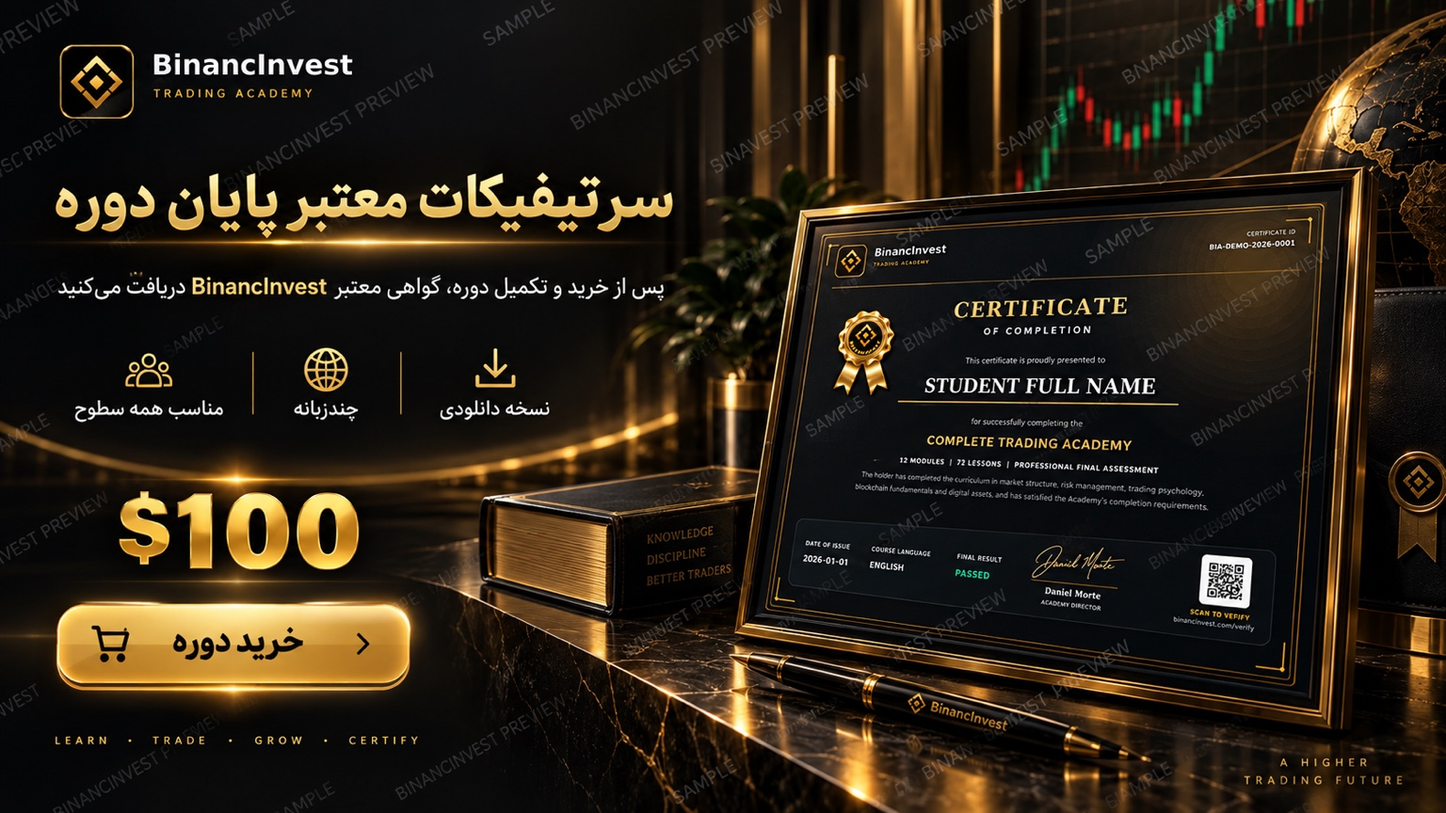
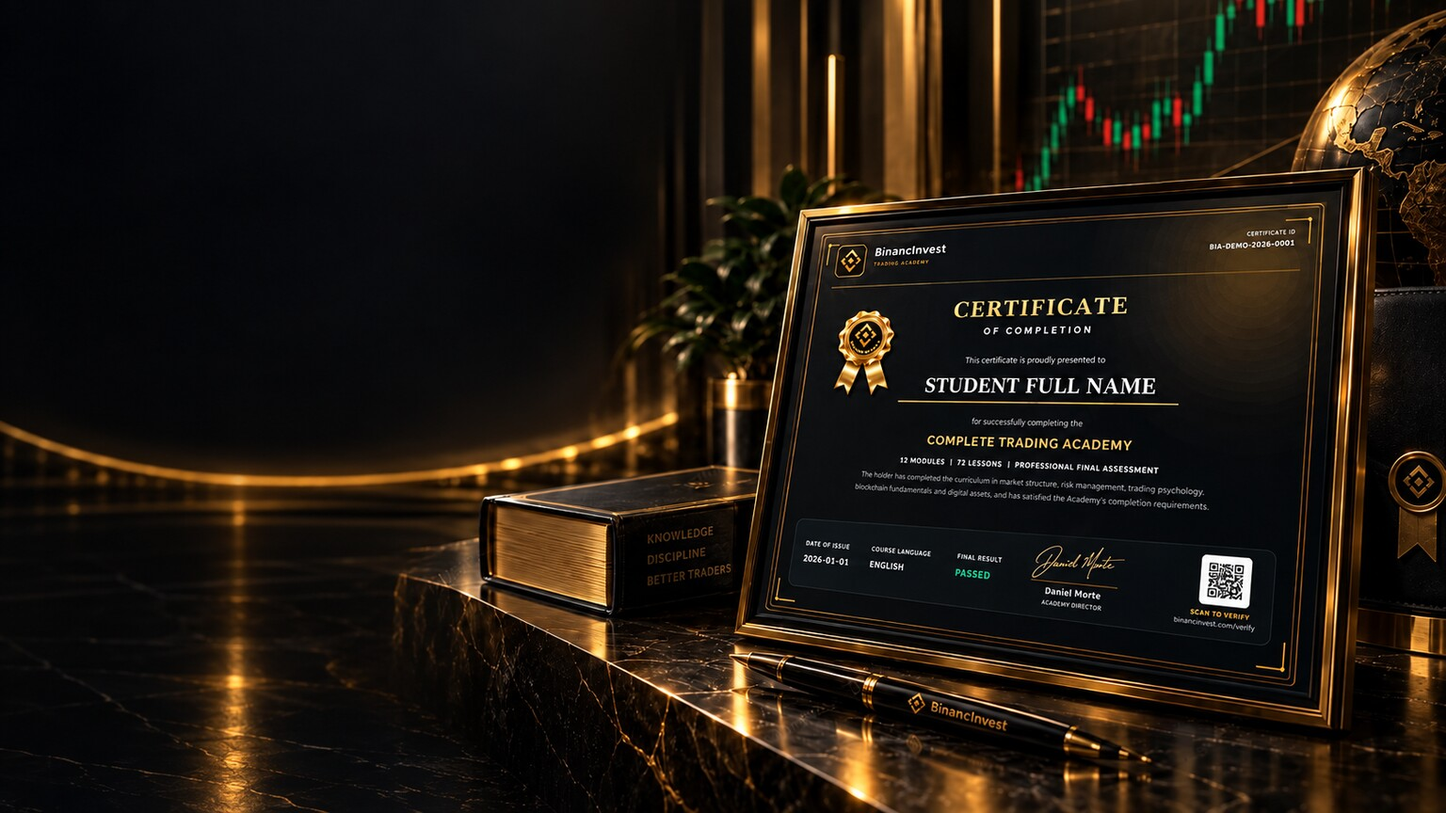
Add files via upload

diff --git a/index.html b/index.html
@@ -14610,30 +14610,25 @@ html[dir="rtl"] .bsc4-monthly-badge{margin-left:0;margin-right:8px}
 </style>
 
 <style id="academy-home-store-v1">
-/* BinancInvest Trading Academy — homepage carousel and secure checkout */
+/* BinancInvest Trading Academy — exact 16:9 artwork with live HTML copy */
 .academy-home-showcase{margin:22px 0 28px}
-.academy-home-heading{display:flex;align-items:flex-end;justify-content:space-between;gap:16px;margin:0 0 12px}
-.academy-home-heading h2{margin:0;color:#fff;font-size:22px;font-weight:950;letter-spacing:-.25px}
-.academy-home-heading p{margin:6px 0 0;color:#9ca8b7;font-size:13px;line-height:1.65}
-.academy-promo-track{direction:ltr;display:flex;gap:14px;overflow-x:auto;overscroll-behavior-inline:contain;scroll-snap-type:x proximity;scrollbar-width:thin;scrollbar-color:rgba(240,185,11,.48) rgba(255,255,255,.045);padding:1px 1px 10px;touch-action:pan-x pan-y}
+.academy-promo-track{direction:ltr;display:flex;gap:14px;overflow-x:auto;overscroll-behavior-inline:contain;scroll-snap-type:x mandatory;scrollbar-width:thin;scrollbar-color:rgba(240,185,11,.48) rgba(255,255,255,.045);padding:1px 1px 10px;touch-action:pan-x pan-y;-webkit-overflow-scrolling:touch}
 .academy-promo-track::-webkit-scrollbar{height:6px}.academy-promo-track::-webkit-scrollbar-track{background:rgba(255,255,255,.04);border-radius:999px}.academy-promo-track::-webkit-scrollbar-thumb{background:linear-gradient(90deg,#9e6d00,#f0b90b,#ffe58a);border-radius:999px}
-.academy-promo-card{position:relative;isolation:isolate;flex:0 0 100%;aspect-ratio:16/9;min-height:430px;overflow:hidden;scroll-snap-align:start;background:#05070b;border:1px solid rgba(240,185,11,.38);border-radius:24px;box-shadow:0 24px 65px rgba(0,0,0,.52),inset 0 1px 0 rgba(255,255,255,.055)}
-.academy-promo-media,.academy-promo-shade{position:absolute;inset:0;width:100%;height:100%}.academy-promo-media{z-index:0;object-fit:cover;object-position:center}.academy-promo-shade{z-index:1;pointer-events:none;background:linear-gradient(90deg,#05070b 0%,#05070b 45%,rgba(5,7,11,.985) 52%,rgba(5,7,11,.86) 61%,rgba(5,7,11,.24) 73%,transparent 82%)}
-.academy-promo-card.certificate .academy-promo-shade{background:linear-gradient(90deg,#05070b 0%,#05070b 43%,rgba(5,7,11,.985) 50%,rgba(5,7,11,.88) 58%,rgba(5,7,11,.22) 70%,transparent 80%)}
-.academy-promo-content{position:relative;z-index:2;display:flex;flex-direction:column;justify-content:center;width:56%;height:100%;padding:4.3% 4.6%;text-align:start}
-.academy-promo-brand{display:flex;align-items:center;gap:10px;margin-bottom:14px;color:#f8f9fb;font-size:14px;font-weight:950;letter-spacing:.2px}.academy-promo-brand svg{width:36px;height:36px;flex:none;padding:7px;background:rgba(8,10,13,.78);border:1px solid rgba(255,222,111,.58);border-radius:10px;box-shadow:0 0 17px rgba(240,185,11,.15)}.academy-promo-brand small{display:block;margin-top:2px;color:#dcae35;font-size:8px;font-weight:850;letter-spacing:2.1px;text-transform:uppercase}
-.academy-promo-kicker{margin-bottom:8px;color:#ffe58a;font-size:11px;font-weight:900;letter-spacing:1.7px;text-transform:uppercase;text-shadow:0 0 14px rgba(240,185,11,.23)}
-.academy-promo-content h3{max-width:720px;margin:0;color:#fff4c8;font-size:clamp(30px,4.2vw,58px);font-weight:950;letter-spacing:-1.4px;line-height:1.06;text-shadow:0 3px 18px rgba(0,0,0,.9),0 0 24px rgba(240,185,11,.13)}
-.academy-promo-content>p{max-width:650px;margin:13px 0 0;color:#e5e9ee;font-size:clamp(14px,1.45vw,19px);font-weight:600;line-height:1.7;text-shadow:0 2px 12px rgba(0,0,0,.96)}
-.academy-promo-highlight{display:inline-flex;align-items:center;width:max-content;max-width:100%;margin-top:15px;padding:10px 14px;color:#ffe9a8;font-size:clamp(12px,1.1vw,15px);font-weight:800;line-height:1.5;background:linear-gradient(145deg,rgba(255,255,255,.075),rgba(240,185,11,.045));border:1px solid rgba(255,222,116,.34);border-radius:12px;box-shadow:inset 0 1px 0 rgba(255,255,255,.055),0 8px 24px rgba(0,0,0,.24);backdrop-filter:blur(10px);-webkit-backdrop-filter:blur(10px)}
-.academy-promo-features{display:flex;flex-wrap:wrap;gap:8px;margin-top:14px}.academy-promo-feature{padding:7px 10px;color:#f0f3f7;font-size:12px;font-weight:750;background:rgba(7,10,14,.61);border:1px solid rgba(240,185,11,.22);border-radius:999px;backdrop-filter:blur(10px);-webkit-backdrop-filter:blur(10px)}
-.academy-promo-actions{display:flex;align-items:center;gap:10px;flex-wrap:wrap;margin-top:17px}.academy-promo-price{display:grid;place-items:center;min-width:126px;min-height:53px;padding:8px 17px;color:#ffe58a;font-size:31px;font-weight:950;line-height:1;background:rgba(6,9,13,.74);border:1px solid rgba(255,220,100,.58);border-radius:14px;box-shadow:inset 0 1px 0 rgba(255,255,255,.06),0 8px 24px rgba(0,0,0,.28)}
-.academy-promo-buy,.academy-promo-download{min-height:53px;padding:11px 20px;border-radius:14px;font-size:14px;font-weight:950;transition:transform .18s ease,border-color .18s ease,filter .18s ease}.academy-promo-buy{color:#171100;background:linear-gradient(135deg,#fff2ab,#f0b90b 63%,#d89400);border:1px solid #ffe16b;box-shadow:inset 0 1px 1px rgba(255,255,255,.7),0 9px 25px rgba(240,185,11,.18)}.academy-promo-buy:hover{transform:translateY(-2px);filter:brightness(1.04)}.academy-promo-download{color:#e8edf4;background:rgba(11,16,22,.83);border:1px solid rgba(255,255,255,.18)}.academy-promo-download:not(:disabled){color:#07110c;background:linear-gradient(135deg,#7cf5c2,#16c784);border-color:#70e9b7}.academy-promo-download:disabled{opacity:.58;cursor:not-allowed}
+.academy-promo-card{container-type:inline-size;position:relative;isolation:isolate;flex:0 0 100%;width:100%;height:auto;min-height:0;aspect-ratio:16/9;overflow:hidden;scroll-snap-align:start;background:#05070b;border:1px solid rgba(240,185,11,.38);border-radius:clamp(12px,1.55vw,24px);box-shadow:0 24px 65px rgba(0,0,0,.52);transform:translateZ(0)}
+.academy-promo-media{position:absolute;inset:0;z-index:0;width:100%;height:100%;object-fit:contain;object-position:center;background:#05070b;pointer-events:none}
+.academy-ad-copy{position:absolute;z-index:2;inset:0 auto 0 0;width:51%;padding:3.6% 3.7% 3.1%;color:#fff;display:flex;flex-direction:column;text-align:left;direction:ltr;text-shadow:0 .18cqw .65cqw rgba(0,0,0,.98)}
+.academy-promo-card[dir="rtl"] .academy-ad-copy{text-align:right;direction:rtl}
+.academy-ad-brand{height:10%;display:flex;align-items:center;gap:1.05cqw;color:#fff;font-size:clamp(7px,1.85cqw,28px);font-weight:950;white-space:nowrap}.academy-ad-brand svg{width:5.3cqw;height:5.3cqw;flex:none;color:#f5c449}.academy-ad-brand small{display:block;margin-top:.18cqw;color:#e3ac26;font-size:clamp(4px,.68cqw,10px);font-weight:800;letter-spacing:.25cqw;text-transform:uppercase}.academy-ad-brand-value{margin-inline-start:1.15cqw;padding-inline-start:1.15cqw;border-inline-start:1px solid rgba(244,193,69,.7);color:#e4b84d;font-size:clamp(4px,.7cqw,11px);font-weight:800;line-height:1.65;letter-spacing:.24cqw;text-transform:uppercase;white-space:normal}
+.academy-ad-copy h3{margin:7.4% 0 0;color:#ffe083;font-size:clamp(12px,3.75cqw,57px);font-weight:950;line-height:1.14;letter-spacing:-.08cqw;white-space:nowrap}.academy-ad-brandline{margin-top:.65%;color:#f7e7b6;font-size:clamp(6px,1.38cqw,21px);font-weight:800;letter-spacing:.28cqw;white-space:nowrap}.academy-ad-subtitle{margin:2.4% 0 0;color:#f5f5f6;font-size:clamp(6px,1.13cqw,17px);font-weight:700;line-height:1.55;min-height:3.2em;display:flex;align-items:flex-start}
+.academy-ad-highlight{display:flex;align-items:center;gap:1.1cqw;margin-top:2.4%;min-height:9%;padding:.65cqw 1.15cqw;color:#f6d97e;font-size:clamp(5px,1.03cqw,16px);font-weight:850;line-height:1.4;border:1px solid rgba(255,210,91,.7);border-radius:1.1cqw;background:rgba(5,7,10,.44)}.academy-ad-highlight svg{width:2.6cqw;height:2.6cqw;flex:none;color:#f4c143}
+.academy-ad-actions{display:flex;align-items:center;gap:1.8cqw;margin-top:3.4%;height:12%}.academy-ad-price{display:grid;place-items:center;width:16.1cqw;height:6.1cqw;color:#ffd768;font-size:clamp(13px,4.45cqw,68px);font-weight:950;line-height:1;border:1px solid rgba(255,220,115,.8);border-radius:1.2cqw;background:rgba(7,9,12,.7);text-shadow:0 .15cqw .6cqw #000}.academy-ad-cta{display:flex;align-items:center;justify-content:center;gap:1.2cqw;width:19.3cqw;height:6.1cqw;padding:0 1cqw;color:#171100;font-size:clamp(7px,1.55cqw,24px);font-weight:950;white-space:nowrap;border:1px solid #ffe992;border-radius:1.2cqw;background:linear-gradient(180deg,#fff1a8,#e9a519);box-shadow:inset 0 1px 1px rgba(255,255,255,.85),0 .5cqw 1.4cqw rgba(239,176,20,.25)}.academy-ad-cta:hover{filter:brightness(1.05)}.academy-ad-cta svg{width:2cqw;height:2cqw}.academy-ad-cta[hidden]{display:none!important}
+.academy-ad-features{display:grid;grid-template-columns:repeat(4,1fr);gap:.4cqw;margin-top:3%;height:12%;color:#fff}.academy-ad-feature{display:flex;flex-direction:column;align-items:center;justify-content:center;gap:.35cqw;padding-inline:.25cqw;font-size:clamp(4px,.78cqw,12px);font-weight:800;line-height:1.25;text-align:center;border-inline-start:1px solid rgba(238,184,54,.42)}.academy-ad-feature:first-child{border-inline-start:0}.academy-ad-feature svg{width:2.1cqw;height:2.1cqw;color:#f1c14f}.academy-ad-tagline{margin-top:auto;color:#e8c46f;font-size:clamp(4px,.61cqw,9px);font-weight:800;letter-spacing:.32cqw;white-space:nowrap;text-transform:uppercase}
+.academy-ad-certificate h3{margin-top:8.8%;font-size:clamp(11px,3.35cqw,51px)}.academy-ad-certificate .academy-ad-subtitle{font-size:clamp(6px,1.05cqw,16px)}.academy-ad-certificate .academy-ad-features{grid-template-columns:repeat(3,1fr);margin-top:3.8%;height:13%}.academy-ad-certificate .academy-ad-actions{margin-top:4%}
+.academy-promo-card[lang="en"].academy-ad-certificate h3,.academy-promo-card[lang="es"].academy-ad-certificate h3,.academy-promo-card[lang="fr"].academy-ad-certificate h3,.academy-promo-card[lang="de"].academy-ad-certificate h3,.academy-promo-card[lang="ru"].academy-ad-certificate h3{font-size:clamp(9px,2.45cqw,37px)}
+.academy-promo-card[lang="de"].academy-ad-course h3,.academy-promo-card[lang="fr"].academy-ad-course h3,.academy-promo-card[lang="es"].academy-ad-course h3,.academy-promo-card[lang="ru"].academy-ad-course h3{font-size:clamp(10px,3.05cqw,46px)}
 .academy-promo-nav{display:flex;align-items:center;justify-content:center;gap:8px;margin-top:8px}.academy-promo-dot{width:10px;height:10px;padding:0;background:rgba(255,255,255,.16);border:1px solid rgba(255,255,255,.18);border-radius:999px;transition:width .2s ease,background .2s ease,border-color .2s ease}.academy-promo-dot.active{width:31px;background:linear-gradient(90deg,#d99b00,#ffe58a);border-color:#ffe58a}
 .academy-payment-modal .bscp-title{max-width:330px}.academy-payment-modal .academy-checkout-code{color:#ffe58a;font-size:10px;font-weight:900;letter-spacing:1.6px}.academy-payment-modal .academy-success-actions{display:flex;gap:9px;justify-content:center;flex-wrap:wrap;margin-top:16px}.academy-payment-modal .academy-success-actions .bscp-primary,.academy-payment-modal .academy-success-actions .bscp-secondary{width:auto;min-width:150px}
-html[dir="rtl"] .academy-home-heading,html[dir="rtl"] .academy-promo-content{text-align:right}.academy-promo-card[dir="ltr"] .academy-promo-content{text-align:left}.academy-promo-card[dir="rtl"] .academy-promo-content{text-align:right}
-@media(max-width:780px){.academy-home-heading{align-items:flex-start;flex-direction:column}.academy-promo-card{min-height:390px;aspect-ratio:4/3;border-radius:19px}.academy-promo-media{object-position:61% center}.academy-promo-shade,.academy-promo-card.certificate .academy-promo-shade{background:linear-gradient(90deg,#05070b 0%,rgba(5,7,11,.995) 54%,rgba(5,7,11,.88) 69%,rgba(5,7,11,.26) 88%,transparent)}.academy-promo-content{width:72%;padding:25px 20px}.academy-promo-content h3{font-size:clamp(25px,7vw,38px)}.academy-promo-content>p{font-size:13px}.academy-promo-feature{font-size:10px}.academy-promo-price{min-width:104px;min-height:46px;font-size:27px}.academy-promo-buy,.academy-promo-download{min-height:46px;padding:9px 14px;font-size:12px}}
-@media(max-width:480px){.academy-home-showcase{width:100vw;margin-left:calc(50% - 50vw);padding:0 12px}.academy-promo-card{min-height:430px;aspect-ratio:auto;border-radius:17px}.academy-promo-media{object-position:66% center}.academy-promo-shade,.academy-promo-card.certificate .academy-promo-shade{background:linear-gradient(90deg,#040609 0%,rgba(4,6,9,.995) 61%,rgba(4,6,9,.9) 76%,rgba(4,6,9,.42) 94%,transparent)}.academy-promo-content{width:84%;padding:24px 18px}.academy-promo-brand{margin-bottom:10px}.academy-promo-content h3{font-size:28px;letter-spacing:-.65px}.academy-promo-content>p{margin-top:10px;font-size:13px;line-height:1.58}.academy-promo-highlight{margin-top:11px;padding:8px 10px;font-size:11px}.academy-promo-features{gap:6px;margin-top:10px}.academy-promo-feature{padding:6px 8px}.academy-promo-actions{gap:7px;margin-top:12px}.academy-promo-price{min-width:92px;font-size:24px}.academy-promo-buy,.academy-promo-download{padding-inline:11px}.academy-promo-download{flex:1 1 100%}}
+@media(max-width:480px){.academy-home-showcase{width:100vw;margin-left:calc(50% - 50vw);padding:0 8px}.academy-promo-track{gap:8px}.academy-promo-card{border-radius:10px}}
 </style>
 </head>
 <body data-investment-model="flex-v6-37-8">
@@ -14830,62 +14825,46 @@ html[dir="rtl"] .academy-home-heading,html[dir="rtl"] .academy-promo-content{tex
 </div>
 <div class="hero"><div class="eyebrow" data-t="eyebrowText">PREMIUM DIGITAL ASSET PLATFORM</div><h1 data-t="hero">Build your future with intelligent investing.</h1><p data-t="heroDesc">Explore digital assets, investment plans and portfolio tools in one premium interface.</p><div class="actions"><button class="btn gold" onclick="page('invest', document.querySelector('[data-page=invest]'))" data-t="exploreInvest">Explore Investments</button><button class="btn" onclick="page('markets', document.querySelector('[data-page=markets]'))" data-t="exploreMarkets">Explore Markets</button></div><svg class="hero-glass-lightning" viewBox="0 0 300 430" preserveAspectRatio="xMaxYMin meet" aria-hidden="true"><defs><linearGradient id="heroGlassBolt" x1="1" y1="0" x2="0" y2="1"><stop offset="0" stop-color="#fff" stop-opacity=".98"/><stop offset=".42" stop-color="#dff5ff" stop-opacity=".88"/><stop offset=".76" stop-color="#fff0b0" stop-opacity=".66"/><stop offset="1" stop-color="#f0b90b" stop-opacity=".16"/></linearGradient><filter id="heroBoltGlow" x="-100%" y="-100%" width="300%" height="300%"><feGaussianBlur stdDeviation="3.8" result="blur"/><feMerge><feMergeNode in="blur"/><feMergeNode in="SourceGraphic"/></feMerge></filter></defs><path class="lightning-core" d="M299 1 L269 52 L278 84 L228 128 L239 163 L184 211 L195 248 L139 307 L150 347 L101 426"/><path class="lightning-shine" d="M299 1 L269 52 L278 84 L228 128 L239 163 L184 211 L195 248 L139 307 L150 347 L101 426"/><path class="lightning-branch" d="M228 128 L191 104 L162 66"/><path class="lightning-branch" d="M239 163 L273 143 L297 110"/><path class="lightning-branch" d="M184 211 L146 191 L111 151"/><path class="lightning-branch" d="M195 248 L233 236 L266 202"/><path class="lightning-branch" d="M139 307 L104 286 L74 251"/></svg><div class="orb"></div></div>
 
-<section class="academy-home-showcase" aria-labelledby="academyHomeTitle">
-  <div class="academy-home-heading">
-    <div>
-      <h2 id="academyHomeTitle" data-academy="sectionTitle">Trading Academy</h2>
-      <p data-academy="sectionDesc">Complete multilingual trading education with downloadable course files and a professional certificate.</p>
-    </div>
-  </div>
-
+<section class="academy-home-showcase" aria-label="Trading Academy">
   <div class="academy-promo-track" id="academyPromoTrack" role="region" aria-label="Trading Academy offers" tabindex="0">
-    <article class="academy-promo-card course" data-academy-slide="0">
+    <article class="academy-promo-card academy-ad-course" data-academy-slide="0">
       <img class="academy-promo-media" src="academy-course-showcase.jpeg" alt="" width="1536" height="864" loading="eager" decoding="async">
-      <span class="academy-promo-shade" aria-hidden="true"></span>
-      <div class="academy-promo-content">
-        <div class="academy-promo-brand">
-          <svg viewBox="0 0 24 24" fill="#F0B90B" aria-hidden="true"><path d="M11.996 9.845 14.15 12l-2.154 2.155L9.84 12l2.156-2.155Zm0-5.055 3.942 3.94 2.155-2.155L11.996.48 5.903 6.575l2.155 2.154 3.938-3.94ZM19.897 12l-2.155-2.155 2.155-2.154L23.99 12l-4.093 4.093-2.155-2.154L19.897 12ZM4.103 12l2.155 2.155-2.155 2.154L0 12l4.093-4.093 2.155 2.154L4.103 12Zm7.893 7.21-3.942-3.94-2.155 2.155 6.097 6.095 6.097-6.096-2.155-2.154-3.942 3.94Z"/></svg>
-          <span>BinancInvest<small>Trading Academy</small></span>
+      <div class="academy-ad-copy">
+        <div class="academy-ad-brand">
+          <svg viewBox="0 0 24 24" fill="currentColor" aria-hidden="true"><path d="M11.996 9.845 14.15 12l-2.154 2.155L9.84 12l2.156-2.155Zm0-5.055 3.942 3.94 2.155-2.155L11.996.48 5.903 6.575l2.155 2.154 3.938-3.94ZM19.897 12l-2.155-2.155 2.155-2.154L23.99 12l-4.093 4.093-2.155-2.154L19.897 12ZM4.103 12l2.155 2.155-2.155 2.154L0 12l4.093-4.093 2.155 2.154L4.103 12Zm7.893 7.21-3.942-3.94-2.155 2.155 6.097 6.095 6.097-6.096-2.155-2.154-3.942 3.94Z"/></svg>
+          <span>BinancInvest<small>Trading Academy</small></span><span class="academy-ad-brand-value" data-academy="valueLine">Knowledge<br>Builds Wealth</span>
         </div>
-        <span class="academy-promo-kicker" data-academy="courseKicker">COMPLETE TRADING EDUCATION</span>
         <h3 data-academy="courseTitle">Complete Trading Academy</h3>
-        <p data-academy="courseSubtitle">A structured course from beginner to advanced: Spot, Futures, technical analysis and risk management.</p>
-        <div class="academy-promo-highlight" data-academy="courseCertificate">Complete the course and receive a professional BinancInvest certificate.</div>
-        <div class="academy-promo-features">
-          <span class="academy-promo-feature" data-academy="strategy">Practical strategies</span>
-          <span class="academy-promo-feature" data-academy="mentor">Professional training</span>
-          <span class="academy-promo-feature" data-academy="support">Dedicated support</span>
-          <span class="academy-promo-feature" data-academy="community">Active trader community</span>
+        <div class="academy-ad-brandline">BinancInvest Trading Academy</div>
+        <p class="academy-ad-subtitle" data-academy="courseSubtitle">From beginner to advanced: Spot, Futures, technical analysis and risk management.</p>
+        <div class="academy-ad-highlight"><svg viewBox="0 0 24 24" fill="none"><path d="M5 3h14v14H5zM8 20h8M10 17v3m4-3v3" stroke="currentColor" stroke-width="1.7"/><path d="m9 10 2 2 4-5" stroke="currentColor" stroke-width="1.7"/></svg><span data-academy="courseCertificate">Buy this course and receive a professional certificate.</span></div>
+        <div class="academy-ad-actions"><span class="academy-ad-price" dir="ltr">$100</span><button class="academy-ad-cta" type="button" onclick="academyOpenCheckout()" data-academy-buy data-academy="buyCourse">Buy Course</button><button class="academy-ad-cta" type="button" onclick="academyDownload()" data-academy-download hidden data-academy="downloadCourse">Download Course</button></div>
+        <div class="academy-ad-features">
+          <span class="academy-ad-feature"><svg viewBox="0 0 24 24" fill="none"><path d="M4 19V9m5 10V5m5 14v-7m5 7V3" stroke="currentColor" stroke-width="1.7"/></svg><span data-academy="strategy">Practical strategies</span></span>
+          <span class="academy-ad-feature"><svg viewBox="0 0 24 24" fill="none"><path d="m3 8 9-5 9 5-9 5-9-5Zm4 3v5c3 3 7 3 10 0v-5" stroke="currentColor" stroke-width="1.7"/></svg><span data-academy="mentor">Professional training</span></span>
+          <span class="academy-ad-feature"><svg viewBox="0 0 24 24" fill="none"><path d="M12 3 5 6v5c0 5 3 8 7 10 4-2 7-5 7-10V6l-7-3Zm-3 9 2 2 4-5" stroke="currentColor" stroke-width="1.7"/></svg><span data-academy="support">Dedicated support</span></span>
+          <span class="academy-ad-feature"><svg viewBox="0 0 24 24" fill="none"><circle cx="9" cy="8" r="3" stroke="currentColor" stroke-width="1.7"/><path d="M3 20v-2c0-3 2-5 6-5s6 2 6 5v2m1-12a3 3 0 0 1 0 6m1 1c3 0 4 2 4 5" stroke="currentColor" stroke-width="1.7"/></svg><span data-academy="community">Active trader community</span></span>
         </div>
-        <div class="academy-promo-actions">
-          <span class="academy-promo-price" dir="ltr">$100</span>
-          <button class="academy-promo-buy" type="button" onclick="academyOpenCheckout()" data-academy-buy data-academy="buyCourse">Buy Course</button>
-          <button class="academy-promo-download" type="button" onclick="academyDownload()" data-academy-download disabled data-academy="downloadLocked">Download after payment</button>
-        </div>
+        <div class="academy-ad-tagline" data-academy="courseTagline">Trade · Learn · Grow · Together</div>
       </div>
     </article>
 
-    <article class="academy-promo-card certificate" data-academy-slide="1">
+    <article class="academy-promo-card academy-ad-certificate" data-academy-slide="1">
       <img class="academy-promo-media" src="academy-certificate-showcase.jpeg" alt="" width="1536" height="864" loading="lazy" decoding="async">
-      <span class="academy-promo-shade" aria-hidden="true"></span>
-      <div class="academy-promo-content">
-        <div class="academy-promo-brand">
-          <svg viewBox="0 0 24 24" fill="#F0B90B" aria-hidden="true"><path d="M11.996 9.845 14.15 12l-2.154 2.155L9.84 12l2.156-2.155Zm0-5.055 3.942 3.94 2.155-2.155L11.996.48 5.903 6.575l2.155 2.154 3.938-3.94ZM19.897 12l-2.155-2.155 2.155-2.154L23.99 12l-4.093 4.093-2.155-2.154L19.897 12ZM4.103 12l2.155 2.155-2.155 2.154L0 12l4.093-4.093 2.155 2.154L4.103 12Zm7.893 7.21-3.942-3.94-2.155 2.155 6.097 6.095 6.097-6.096-2.155-2.154-3.942 3.94Z"/></svg>
+      <div class="academy-ad-copy">
+        <div class="academy-ad-brand">
+          <svg viewBox="0 0 24 24" fill="currentColor" aria-hidden="true"><path d="M11.996 9.845 14.15 12l-2.154 2.155L9.84 12l2.156-2.155Zm0-5.055 3.942 3.94 2.155-2.155L11.996.48 5.903 6.575l2.155 2.154 3.938-3.94ZM19.897 12l-2.155-2.155 2.155-2.154L23.99 12l-4.093 4.093-2.155-2.154L19.897 12ZM4.103 12l2.155 2.155-2.155 2.154L0 12l4.093-4.093 2.155 2.154L4.103 12Zm7.893 7.21-3.942-3.94-2.155 2.155 6.097 6.095 6.097-6.096-2.155-2.154-3.942 3.94Z"/></svg>
           <span>BinancInvest<small>Trading Academy</small></span>
         </div>
-        <span class="academy-promo-kicker" data-academy="certificateKicker">PROFESSIONAL COMPLETION CERTIFICATE</span>
         <h3 data-academy="certificateTitle">A certificate that proves your progress</h3>
-        <p data-academy="certificateSubtitle">After completing all 12 modules and 72 lessons, receive your personalized BinancInvest certificate.</p>
-        <div class="academy-promo-features">
-          <span class="academy-promo-feature" data-academy="downloadable">Downloadable</span>
-          <span class="academy-promo-feature" data-academy="multilingual">10 languages</span>
-          <span class="academy-promo-feature" data-academy="verified">Professionally verifiable</span>
+        <p class="academy-ad-subtitle" data-academy="certificateSubtitle">After completing the course, receive your professional BinancInvest certificate.</p>
+        <div class="academy-ad-features">
+          <span class="academy-ad-feature"><svg viewBox="0 0 24 24" fill="none"><circle cx="8" cy="8" r="3" stroke="currentColor" stroke-width="1.7"/><path d="M2 20v-2c0-3 2-5 6-5s6 2 6 5v2m4-9v6m-3-3h6" stroke="currentColor" stroke-width="1.7"/></svg><span data-academy="allLevels">All levels</span></span>
+          <span class="academy-ad-feature"><svg viewBox="0 0 24 24" fill="none"><circle cx="12" cy="12" r="9" stroke="currentColor" stroke-width="1.7"/><path d="M3 12h18M12 3c3 3 4 6 4 9s-1 6-4 9c-3-3-4-6-4-9s1-6 4-9Z" stroke="currentColor" stroke-width="1.7"/></svg><span data-academy="multilingual">10 languages</span></span>
+          <span class="academy-ad-feature"><svg viewBox="0 0 24 24" fill="none"><path d="M12 3v12m0 0-4-4m4 4 4-4M5 20h14" stroke="currentColor" stroke-width="1.7"/></svg><span data-academy="downloadable">Downloadable</span></span>
         </div>
-        <div class="academy-promo-actions">
-          <span class="academy-promo-price" dir="ltr">$100</span>
-          <button class="academy-promo-buy" type="button" onclick="academyOpenCheckout()" data-academy-buy data-academy="buyCourse">Buy Course</button>
-          <button class="academy-promo-download" type="button" onclick="academyDownload()" data-academy-download disabled data-academy="downloadLocked">Download after payment</button>
-        </div>
+        <div class="academy-ad-actions"><span class="academy-ad-price" dir="ltr">$100</span><button class="academy-ad-cta" type="button" onclick="academyOpenCheckout()" data-academy-buy data-academy="buyCourse">Buy Course</button><button class="academy-ad-cta" type="button" onclick="academyDownload()" data-academy-download hidden data-academy="downloadCourse">Download Course</button></div>
+        <div class="academy-ad-tagline" data-academy="certificateTagline">Learn · Trade · Grow · Certify</div>
       </div>
     </article>
   </div>
@@ -33509,7 +33488,7 @@ let prev=lang();setInterval(()=>{const x=lang();if(x!==prev){prev=x;applyLabels(
   "use strict";
   const PRICE=100;
   const ADDRESS="0x7a858984dAE29B02d148f254eCa04aeB6c51f8fD";
-  const DOWNLOAD_FILE="BinancInvest_Trading_Academy_10_Languages.zip";
+  const DOWNLOAD_HOST="zpwxvngrowhqquwpovuf.supabase.co";
   const $=function(id){return document.getElementById(id)};
   const COPY={
     en:{sectionTitle:"Trading Academy",sectionDesc:"Complete multilingual trading education with downloadable course files and a professional certificate.",courseKicker:"COMPLETE TRADING EDUCATION",courseTitle:"Complete Trading Academy",courseSubtitle:"A structured course from beginner to advanced: Spot, Futures, technical analysis and risk management.",courseCertificate:"Complete the course and receive a professional BinancInvest certificate.",strategy:"Practical strategies",mentor:"Professional training",support:"Dedicated support",community:"Active trader community",certificateKicker:"PROFESSIONAL COMPLETION CERTIFICATE",certificateTitle:"A certificate that proves your progress",certificateSubtitle:"After completing all 12 modules and 72 lessons, receive your personalized BinancInvest certificate.",downloadable:"Downloadable",multilingual:"10 languages",verified:"Professionally verifiable",buyCourse:"Buy Course",purchased:"Purchased",downloadLocked:"Download after payment",downloadCourse:"Download 10-language ZIP",checkoutKicker:"BINANCINVEST SECURE CHECKOUT",checkoutTitle:"Complete Trading Academy",baseTitle:"Pay from Base Plan",baseDesc:"Use available principal from your Base Plan.",directTitle:"Direct Payment",directDesc:"Send USDT directly and verify the TXID.",availableBase:"Available Base Plan principal",baseHint:"The exact course price is deducted from Base Plan principal. Existing earned profit remains unchanged.",payBase:"Pay from Base Plan",directHint:"For automatic verification, send exactly 100 USDT using BEP20 or ERC20.",fastVerify:"Automatic blockchain verification",walletAddress:"Wallet address",copy:"Copy",copied:"Copied",sendExactly:"Send exactly",txidLabel:"Transaction Hash (TXID)",verifyPayment:"Verify Payment",checkAgain:"Check Again",successTitle:"Payment Successful",successText:"Your course access is active. The 10-language ZIP is ready to download.",downloadNow:"Download Course ZIP",done:"Done",login:"Please sign in before purchasing the course.",loading:"Loading account information…",insufficient:"Your Base Plan principal is not enough for this course.",baseReady:"The course price will be deducted from Base Plan principal.",owned:"Course purchased. Your download is active.",processing:"Processing secure payment…",txid:"Enter a valid 0x transaction hash.",checking:"Payment found. Waiting for blockchain confirmations…",notFound:"Transaction has not been mined yet. We will check again.",failed:"Payment verification failed. Check network, amount and TXID.",server:"Payment service is temporarily unavailable."},
@@ -33523,6 +33502,19 @@ let prev=lang();setInterval(()=>{const x=lang();if(x!==prev){prev=x;applyLabels(
     fr:{sectionTitle:"Académie de Trading",sectionDesc:"Formation complète en 10 langues, fichiers téléchargeables et certificat professionnel.",courseKicker:"FORMATION COMPLÈTE AU TRADING",courseTitle:"Académie Complète de Trading",courseSubtitle:"Du niveau débutant au niveau avancé : Spot, Futures, analyse technique et gestion du risque.",courseCertificate:"Terminez le cours et recevez un certificat professionnel BinancInvest.",strategy:"Stratégies pratiques",mentor:"Formation professionnelle",support:"Assistance dédiée",community:"Communauté active",certificateKicker:"CERTIFICAT PROFESSIONNEL",certificateTitle:"Un certificat qui prouve vos progrès",certificateSubtitle:"Après 12 modules et 72 leçons, recevez votre certificat BinancInvest personnalisé.",downloadable:"Téléchargeable",multilingual:"10 langues",verified:"Vérification professionnelle",buyCourse:"Acheter le Cours",purchased:"Acheté",downloadLocked:"Télécharger après paiement",downloadCourse:"Télécharger le ZIP en 10 langues",checkoutKicker:"PAIEMENT SÉCURISÉ BINANCINVEST",checkoutTitle:"Académie Complète de Trading",baseTitle:"Payer avec le Plan de Base",baseDesc:"Utiliser le capital disponible du Plan de Base.",directTitle:"Paiement Direct",directDesc:"Envoyez des USDT et vérifiez le TXID.",availableBase:"Capital disponible du Plan de Base",baseHint:"Le prix est déduit du capital du Plan de Base; les bénéfices actuels restent inchangés.",payBase:"Payer avec le Plan de Base",directHint:"Pour la vérification automatique, envoyez exactement 100 USDT via BEP20 ou ERC20.",fastVerify:"Vérification automatique blockchain",walletAddress:"Adresse du portefeuille",copy:"Copier",copied:"Copié",sendExactly:"Envoyer exactement",txidLabel:"Hash de transaction (TXID)",verifyPayment:"Vérifier le Paiement",checkAgain:"Vérifier à Nouveau",successTitle:"Paiement Réussi",successText:"Votre accès est actif. Le ZIP en 10 langues est prêt à télécharger.",downloadNow:"Télécharger le ZIP du Cours",done:"Terminé",login:"Connectez-vous avant d'acheter le cours.",loading:"Chargement du compte…",insufficient:"Le capital du Plan de Base est insuffisant.",baseReady:"Le prix du cours sera déduit du Plan de Base.",owned:"Cours acheté. Le téléchargement est actif.",processing:"Traitement du paiement sécurisé…",txid:"Saisissez un TXID 0x valide.",checking:"Paiement trouvé; attente des confirmations…",notFound:"Transaction non confirmée. Nouvelle vérification à venir.",failed:"Échec de la vérification. Vérifiez le réseau, le montant et le TXID.",server:"Service de paiement temporairement indisponible."},
     de:{sectionTitle:"Trading-Akademie",sectionDesc:"Vollständige Ausbildung in 10 Sprachen, Downloads und professionelles Zertifikat.",courseKicker:"VOLLSTÄNDIGE TRADING-AUSBILDUNG",courseTitle:"Komplette Trading-Akademie",courseSubtitle:"Vom Anfänger bis zum Profi: Spot, Futures, technische Analyse und Risikomanagement.",courseCertificate:"Schließen Sie den Kurs ab und erhalten Sie ein professionelles BinancInvest-Zertifikat.",strategy:"Praktische Strategien",mentor:"Professionelle Schulung",support:"Persönlicher Support",community:"Aktive Trader-Community",certificateKicker:"PROFESSIONELLES ABSCHLUSSZERTIFIKAT",certificateTitle:"Ein Zertifikat für Ihren Fortschritt",certificateSubtitle:"Nach 12 Modulen und 72 Lektionen erhalten Sie Ihr persönliches BinancInvest-Zertifikat.",downloadable:"Herunterladbar",multilingual:"10 Sprachen",verified:"Professionell verifizierbar",buyCourse:"Kurs Kaufen",purchased:"Gekauft",downloadLocked:"Download nach Zahlung",downloadCourse:"ZIP in 10 Sprachen herunterladen",checkoutKicker:"SICHERE BINANCINVEST-ZAHLUNG",checkoutTitle:"Komplette Trading-Akademie",baseTitle:"Aus Basisplan bezahlen",baseDesc:"Verfügbares Basisplan-Kapital verwenden.",directTitle:"Direktzahlung",directDesc:"USDT senden und TXID prüfen.",availableBase:"Verfügbares Basisplan-Kapital",baseHint:"Der Kurspreis wird vom Basisplan-Kapital abgezogen; vorhandene Gewinne bleiben unverändert.",payBase:"Aus Basisplan bezahlen",directHint:"Für automatische Prüfung genau 100 USDT über BEP20 oder ERC20 senden.",fastVerify:"Automatische Blockchain-Prüfung",walletAddress:"Wallet-Adresse",copy:"Kopieren",copied:"Kopiert",sendExactly:"Genau senden",txidLabel:"Transaktions-Hash (TXID)",verifyPayment:"Zahlung Prüfen",checkAgain:"Erneut Prüfen",successTitle:"Zahlung Erfolgreich",successText:"Ihr Kurszugang ist aktiv. Das ZIP in 10 Sprachen steht zum Download bereit.",downloadNow:"Kurs-ZIP Herunterladen",done:"Fertig",login:"Bitte zuerst anmelden.",loading:"Kontoinformationen werden geladen…",insufficient:"Das Basisplan-Kapital reicht für den Kurs nicht aus.",baseReady:"Der Kurspreis wird vom Basisplan-Kapital abgezogen.",owned:"Kurs gekauft. Der Download ist aktiv.",processing:"Sichere Zahlung wird verarbeitet…",txid:"Gültige 0x TXID eingeben.",checking:"Zahlung gefunden; Bestätigungen werden erwartet…",notFound:"Transaktion noch nicht bestätigt. Erneute Prüfung folgt.",failed:"Zahlungsprüfung fehlgeschlagen. Netzwerk, Betrag und TXID prüfen.",server:"Zahlungsdienst vorübergehend nicht verfügbar."}
   };
+  const EXTRA={
+    en:{valueLine:"Knowledge Builds Wealth",courseTagline:"Trade · Learn · Grow · Together",certificateTagline:"Learn · Trade · Grow · Certify",allLevels:"Suitable for all levels"},
+    fa:{valueLine:"دانش، ثروت میسازد",courseTitle:"دوره جامع آموزش ترید",courseSubtitle:"آموزش کامل از صفر تا پیشرفته | اسپات، فیوچرز، تحلیل تکنیکال و مدیریت ریسک",courseCertificate:"با خرید این دوره یک سرتیفیکیت معتبر دریافت خواهید کرد",courseTagline:"معامله · یادگیری · رشد · باهم",certificateTitle:"سرتیفیکات معتبر پایان دوره",certificateSubtitle:"پس از خرید و تکمیل دوره، گواهی معتبر BinancInvest دریافت میکنید",certificateTagline:"یادگیری · معامله · رشد · گواهی",allLevels:"مناسب همه سطوح"},
+    az:{valueLine:"Bilik sərvət yaradır",courseTagline:"Ticarət · Öyrən · İnkişaf · Birlikdə",certificateTagline:"Öyrən · Ticarət · İnkişaf · Sertifikat",allLevels:"Bütün səviyyələrə uyğun"},
+    tr:{valueLine:"Bilgi zenginlik yaratır",courseTagline:"İşlem · Öğren · Büyü · Birlikte",certificateTagline:"Öğren · İşlem · Büyü · Sertifika",allLevels:"Tüm seviyelere uygun"},
+    ru:{valueLine:"Знания создают капитал",courseTagline:"Торгуй · Учись · Расти · Вместе",certificateTagline:"Учись · Торгуй · Расти · Сертификат",allLevels:"Для всех уровней"},
+    ar:{valueLine:"المعرفة تبني الثروة",courseTagline:"تداول · تعلّم · تطوّر · معًا",certificateTagline:"تعلّم · تداول · تطوّر · اعتماد",allLevels:"مناسبة لجميع المستويات"},
+    zh:{valueLine:"知识创造财富",courseTagline:"交易 · 学习 · 成长 · 同行",certificateTagline:"学习 · 交易 · 成长 · 认证",allLevels:"适合所有水平"},
+    es:{valueLine:"El conocimiento crea riqueza",courseTagline:"Opera · Aprende · Crece · Juntos",certificateTagline:"Aprende · Opera · Crece · Certifica",allLevels:"Para todos los niveles"},
+    fr:{valueLine:"Le savoir crée la richesse",courseTagline:"Trader · Apprendre · Grandir · Ensemble",certificateTagline:"Apprendre · Trader · Grandir · Certifier",allLevels:"Adapté à tous les niveaux"},
+    de:{valueLine:"Wissen schafft Vermögen",courseTagline:"Handeln · Lernen · Wachsen · Gemeinsam",certificateTagline:"Lernen · Handeln · Wachsen · Zertifikat",allLevels:"Für alle Niveaus geeignet"}
+  };
+  Object.keys(EXTRA).forEach(function(code){Object.assign(COPY[code],EXTRA[code])});
   const state={owned:false,base:0,network:"BEP20",poll:null,polls:0,busy:false};
   function lang(){const value=String(localStorage.getItem("bi_lang")||"en").toLowerCase();return COPY[value]?value:"en"}
   function tr(key){return COPY[lang()][key]||COPY.en[key]||key}
@@ -33538,17 +33530,19 @@ let prev=lang();setInterval(()=>{const x=lang();if(x!==prev){prev=x;applyLabels(
       if(COPY[lang()][key])el.textContent=tr(key);
     });
     const rtl=lang()==="fa"||lang()==="ar";
-    document.querySelectorAll(".academy-promo-card").forEach(function(card){card.setAttribute("dir",rtl?"rtl":"ltr")});
+    document.querySelectorAll(".academy-promo-card").forEach(function(card){card.setAttribute("dir",rtl?"rtl":"ltr");card.setAttribute("lang",lang())});
     updateOwnedButtons();
   }
   function updateOwnedButtons(){
     document.querySelectorAll("[data-academy-buy]").forEach(function(btn){
-      btn.textContent=state.owned?tr("purchased"):tr("buyCourse");
-      btn.disabled=state.owned;
+      btn.textContent=tr("buyCourse");
+      btn.disabled=false;
+      if(btn.classList.contains("academy-ad-cta"))btn.hidden=state.owned;
     });
     document.querySelectorAll("[data-academy-download]").forEach(function(btn){
       btn.disabled=!state.owned;
       btn.textContent=state.owned?tr("downloadCourse"):tr("downloadLocked");
+      if(btn.classList.contains("academy-ad-cta"))btn.hidden=!state.owned;
     });
   }
   async function invoke(body){
@@ -33676,10 +33670,13 @@ let prev=lang();setInterval(()=>{const x=lang();if(x!==prev){prev=x;applyLabels(
       return;
     }
     try{
-      const data=await invoke({action:"access"});
+      const data=await invoke({action:"download"});
       state.owned=!!data.owned;updateOwnedButtons();
       if(!state.owned){if(typeof toast==="function")toast(tr("downloadLocked"));academyOpenCheckout();return}
-      window.location.assign(DOWNLOAD_FILE);
+      if(!data.download_url)throw new Error(tr("server"));
+      const downloadUrl=new URL(data.download_url,window.location.href);
+      if(downloadUrl.protocol!=="https:"||downloadUrl.hostname!==DOWNLOAD_HOST)throw new Error(tr("server"));
+      window.location.assign(downloadUrl.href);
     }catch(error){if(typeof toast==="function")toast(error.message||tr("server"))}
   };
   window.academyScrollSlide=function(index){
@@ -33695,7 +33692,7 @@ let prev=lang();setInterval(()=>{const x=lang();if(x!==prev){prev=x;applyLabels(
     document.querySelectorAll(".academy-promo-dot").forEach(function(dot,index){dot.classList.toggle("active",index===selected)});
   }
   const track=$("academyPromoTrack");
-  if(track){let frame=0;track.addEventListener("scroll",function(){cancelAnimationFrame(frame);frame=requestAnimationFrame(syncDots)},{passive:true})}
+  if(track){let dotTimer=0;track.addEventListener("scroll",function(){clearTimeout(dotTimer);dotTimer=setTimeout(syncDots,70)},{passive:true})}
   document.addEventListener("keydown",function(event){if(event.key==="Escape"&&$("academyPaymentModal")&&$("academyPaymentModal").classList.contains("open"))academyCloseCheckout()});
   let lastLanguage="",lastUserId=null;
   function sync(){
